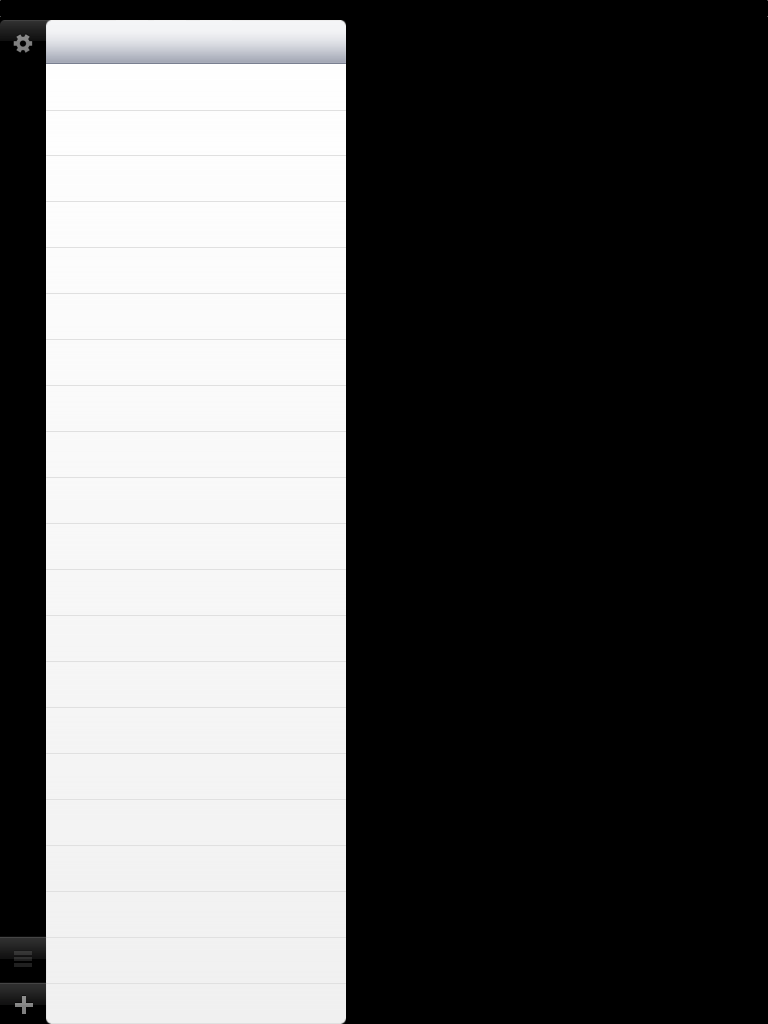
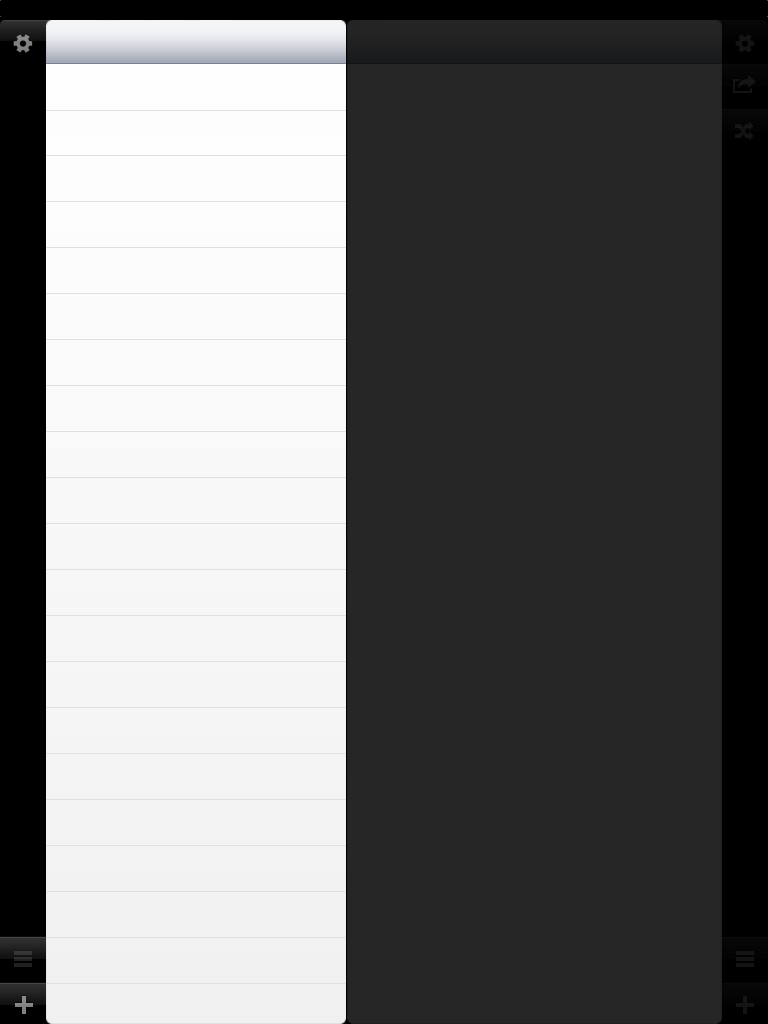
push a dummy view for the right side

diff --git a/Classes/Controllers/CDXCardDeckListPadViewController.m b/Classes/Controllers/CDXCardDeckListPadViewController.m
@@ -47,6 +47,7 @@
 - (void)dealloc {
     ivar_release_and_clear(viewTableViewContainer);
     ivar_release_and_clear(navigationItem);
+    ivar_release_and_clear(viewNoTableView);
     ivar_release_and_clear(tableCellBackgroundImage);
     ivar_release_and_clear(tableCellBackgroundImageAlt);
     [super dealloc];
@@ -59,6 +60,8 @@
     viewTableViewContainer.layer.cornerRadius = 6;
     viewTableView.backgroundView = [[[UIImageView alloc] initWithImage:[[CDXImageFactory sharedImageFactory] imageForLinearGradientWithTopColor:[CDXColor colorWhite] bottomColor:[CDXColor colorWithRed:0xf0 green:0xf0 blue:0xf0 alpha:0xff] height:1024]] autorelease];
     
+    viewTableView.hidden = cardDeck == nil;
+    viewNoTableView.hidden = !viewTableView.hidden;
     navigationItem.title = cardDeck.name;
     
     ivar_assign_and_retain(tableCellBackgroundImage, [[CDXImageFactory sharedImageFactory] imageForLinearGradientWithTopColor:[CDXColor colorWhite] bottomColor:[CDXColor colorWithRed:0xf9 green:0xf9 blue:0xf9 alpha:0xff] height:44]);
@@ -70,9 +73,21 @@
     qltrace();
     ivar_release_and_clear(viewTableViewContainer);
     ivar_release_and_clear(navigationItem);
+    ivar_release_and_clear(viewNoTableView);
     ivar_release_and_clear(tableCellBackgroundImage);
     ivar_release_and_clear(tableCellBackgroundImageAlt);
     [super viewDidUnload];
+}
+
+- (void)viewWillAppear:(BOOL)animated {
+    [super viewWillAppear:animated];
+    if (!viewNoTableView.hidden) {
+        settingsButton.enabled = YES;
+        actionButton.enabled = YES;
+        shuffleButton.enabled = YES;
+        editButton.enabled = YES;
+        addButton.enabled = YES;
+    }
 }
 
 - (void)tableView:(UITableView *)tableView willDisplayCell:(UITableViewCell *)cell forRowAtIndexPath:(NSIndexPath *)indexPath {

diff --git a/Classes/CDXAppDelegate.m b/Classes/CDXAppDelegate.m
@@ -27,6 +27,7 @@
 #import "CDXCardDeckURLSerializer.h"
 #import "CDXCardDecksListViewController.h"
 #import "CDXCardDecksListPadViewController.h"
+#import "CDXCardDeckListPadViewController.h"
 #import "CDXKeyboardExtensions.h"
 #import "CDXDictionarySerializerUtils.h"
 #import "CDXCardDecks.h"
@@ -204,14 +205,16 @@
     
     [[CDXKeyboardExtensions sharedKeyboardExtensions] setEnabled:YES];
     
-    UIViewController *vc = nil;
     if ([[CDXDevice sharedDevice] deviceUIIdiom] == CDXDeviceUIIdiomPhone) {
-        vc = [[[CDXCardDecksListViewController alloc] initWithCardDecks:cardDecks] autorelease];
+        UIViewController *vc = [[[CDXCardDecksListViewController alloc] initWithCardDecks:cardDecks] autorelease];
+        [appWindowManager pushViewController:vc animated:NO];
     } else {
-        vc = [[[CDXCardDecksListPadViewController alloc] initWithCardDecks:cardDecks] autorelease];
+        UIViewController *vcl = [[[CDXCardDecksListPadViewController alloc] initWithCardDecks:cardDecks] autorelease];
+        [appWindowManager pushViewController:vcl animated:NO];
+        UIViewController *vcr = [[[CDXCardDeckListPadViewController alloc] initWithCardDeckViewContext:nil] autorelease];
+        [appWindowManager pushViewController:vcr animated:NO];
     }
     
-    [appWindowManager pushViewController:vc animated:NO];
     [appWindowManager makeWindowKeyAndVisible];
 }
 

diff --git a/Classes/Controllers/CDXCardDeckListViewController.m b/Classes/Controllers/CDXCardDeckListViewController.m
@@ -56,6 +56,7 @@
     ivar_release_and_clear(cardDeck);
     ivar_release_and_clear(shuffleButton);
     ivar_release_and_clear(actionButton);
+    ivar_release_and_clear(addButton);
     ivar_release_and_clear(activeActionSheet);
     [super dealloc];
 }
@@ -63,6 +64,7 @@
 - (void)viewDidUnload {
     ivar_release_and_clear(shuffleButton);
     ivar_release_and_clear(actionButton);
+    ivar_release_and_clear(addButton);
     ivar_release_and_clear(activeActionSheet);
     [super viewDidUnload];
 }

diff --git a/Classes/Controllers/CDXCardDeckListPadViewController.h b/Classes/Controllers/CDXCardDeckListPadViewController.h
@@ -32,6 +32,8 @@
     IBOutlet UIView *viewTableViewContainer;
     IBOutlet UINavigationItem *navigationItem;
     
+    IBOutlet UIView *viewNoTableView;
+    
     UIImage *tableCellBackgroundImage;
     UIImage *tableCellBackgroundImageAlt;
 }

diff --git a/Classes/Controllers/CDXCardDeckListViewController.h b/Classes/Controllers/CDXCardDeckListViewController.h
@@ -37,6 +37,7 @@
     
     IBOutlet UIBarButtonItem *shuffleButton;
     IBOutlet UIBarButtonItem *actionButton;
+    IBOutlet UIBarButtonItem *addButton;
     BOOL viewWasAlreadyVisible;
     
     UIActionSheet *activeActionSheet;
